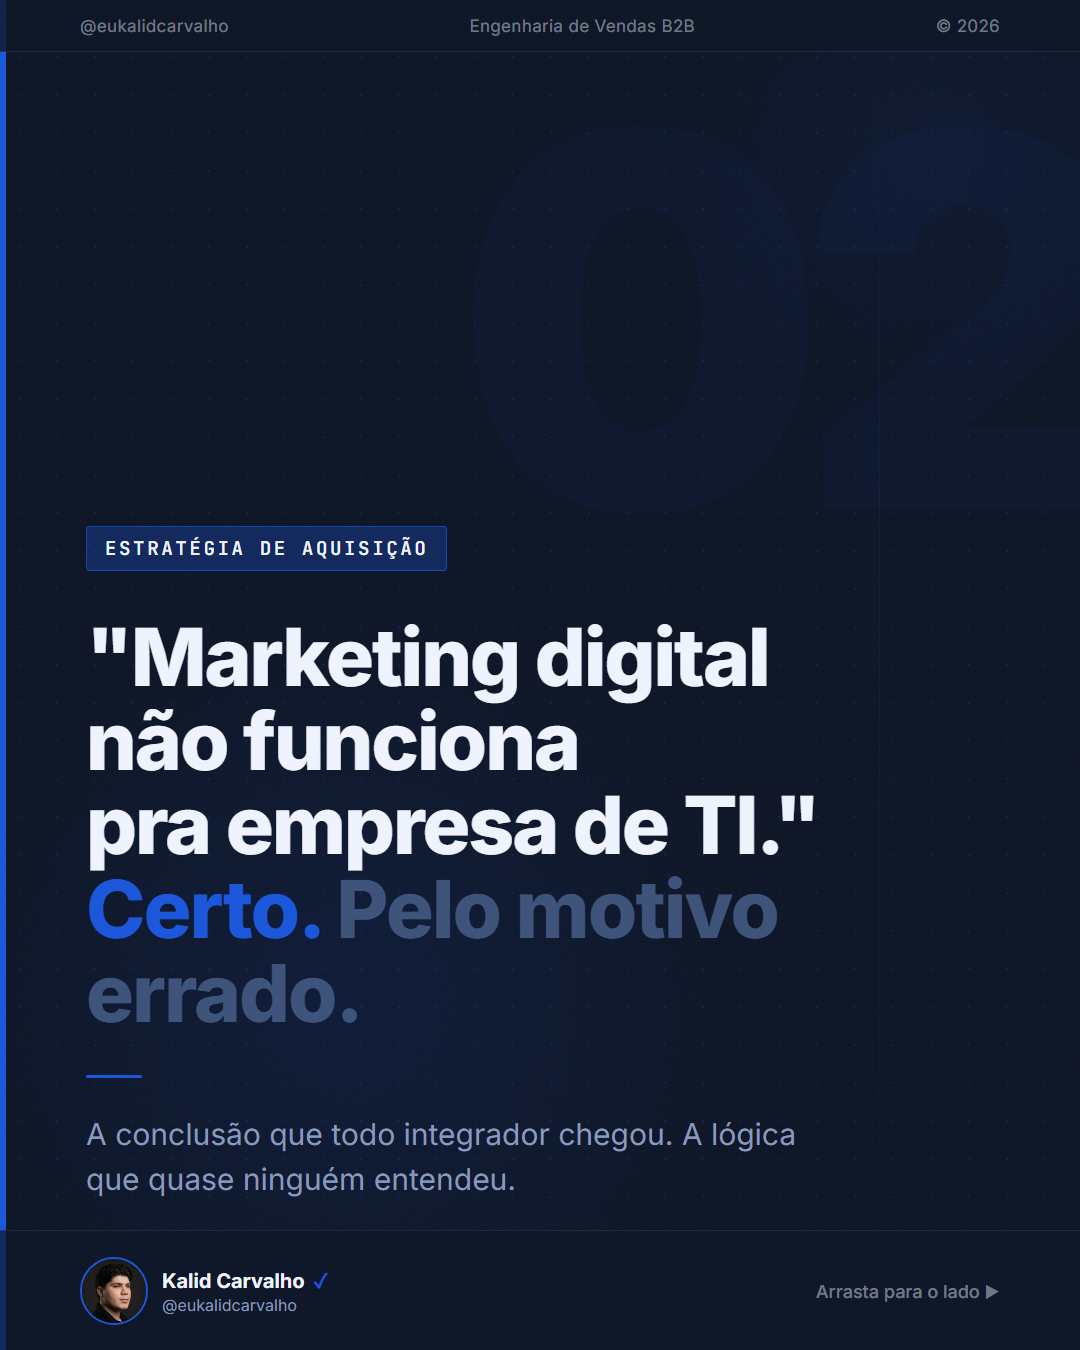
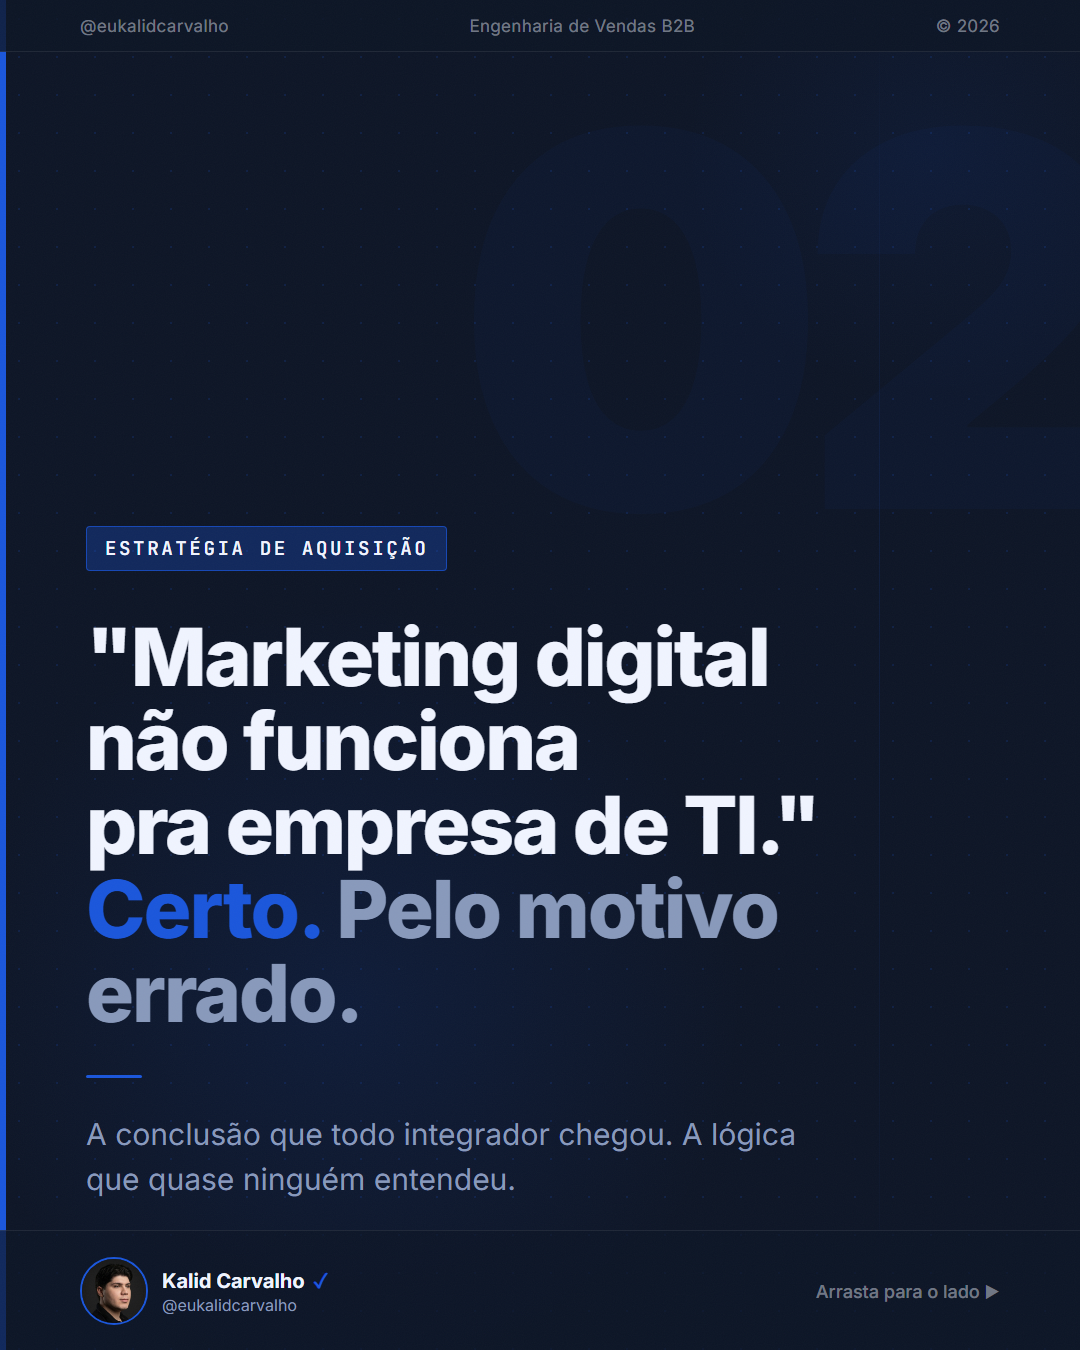
auto-sync: 2026-04-23 14:29

Changed region(s): [[0.3056, 0.6533, 0.7333, 0.7156], [0.0611, 0.7156, 0.3361, 0.7778]]

diff --git a/conteudo/eukalidcarvalho/carrosseis/2026-04-23/ti-marketing-errado/instagram/slide-01.html b/conteudo/eukalidcarvalho/carrosseis/2026-04-23/ti-marketing-errado/instagram/slide-01.html
@@ -151,7 +151,7 @@
       letter-spacing: -0.025em;
     }
     .headline .muted {
-      color: #3D527A;
+      color: #8899BB;
     }
     .headline .highlight {
       color: #1A56DB;
